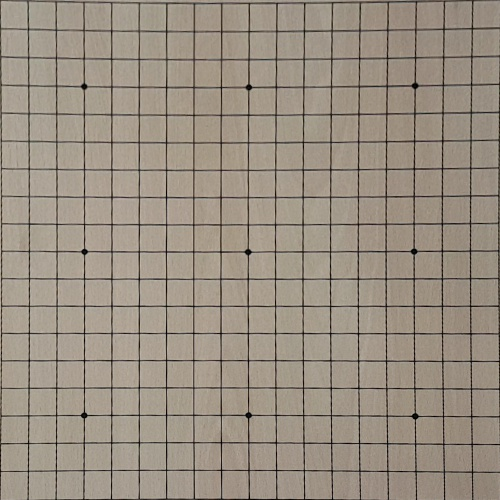
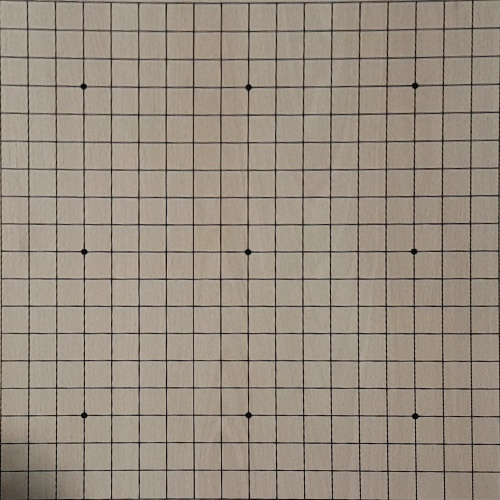
Add more images to test 3

diff --git a/3-calculate-image-difference/calculate_similarity.java b/3-calculate-image-difference/calculate_similarity.java
@@ -7,7 +7,7 @@ public class calculate_similarity {
     static { System.loadLibrary(Core.NATIVE_LIBRARY_NAME); }
 
     public static void main(String[] args) {
-        for (int i = 0; i <= 6; i++) {
+        for (int i = 0; i <= 8; i++) {
             Mat imageA = Imgcodecs.imread("image" + i + "a.jpg");
             Mat imageB = Imgcodecs.imread("image" + i + "b.jpg");
 

diff --git a/3-calculate-image-difference/README.md b/3-calculate-image-difference/README.md
@@ -9,12 +9,13 @@ how different the images are.
 Image pairs 1, 2 and 3 should be very similar, almost identical, and image
 pairs 4 and 5 should have more differences. Image pair 0 is identical, they are
 literally the same image, and can be used as a comparison baseline. Image pair
-6 is very different, one is a go board and the other is a cat (image taken from
+8 is very different, one is a go board and the other is a cat (image taken from
 https://www.pexels.com/photo/cat-whiskers-kitty-tabby-20787/), so this should
 be the most dissimilar pair. However, the cat has somewhat the same color of
 the board, so, although from a image feature point of view it is very different
 from the board, from a histogram perspective it may be close enough (which was
-confirmed by the experiment).
+confirmed by the experiment). Image pairs 6 and 7 have some brightness
+differences and an added stone.
 
 Image similarity metrics that were tested
 -----------------------------------------
@@ -40,6 +41,3 @@ Running
 -------
 
 Tests can be run by running the compile_and_run.sh script without parameters.
-
-Log
----
